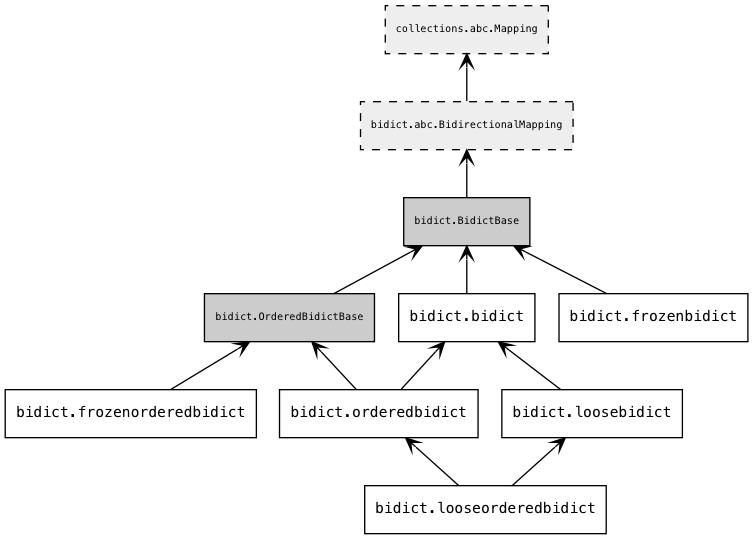
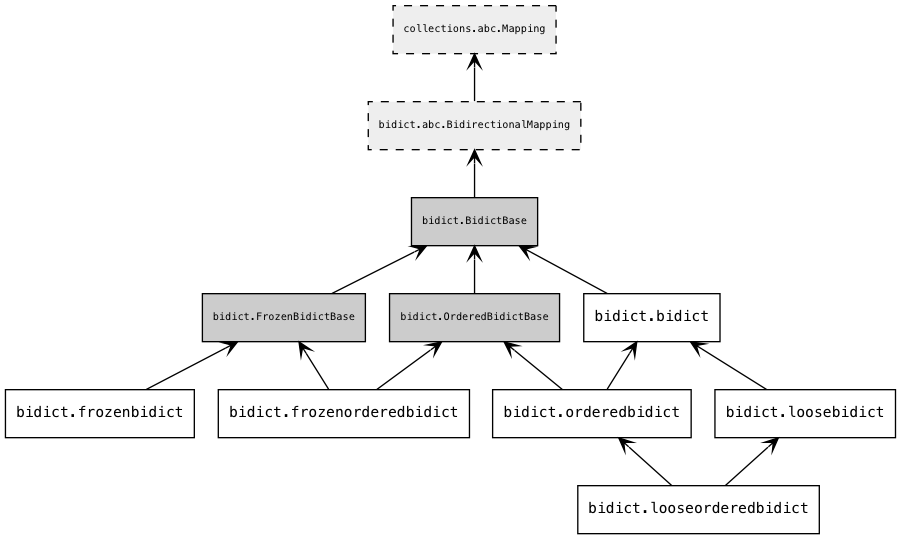
docs fixes and improvements

diff --git a/bidict/_frozen.py b/bidict/_frozen.py
@@ -4,11 +4,10 @@ from ._common import BidictBase, _marker
 from ._ordered import OrderedBidictBase
 from .compat import iteritems
 from abc import abstractmethod
-from collections import Hashable
 from itertools import chain, islice
 
 
-class FrozenBidictBase(Hashable):
+class FrozenBidictBase(BidictBase):
     """
     Base class for frozen bidict types.
 
@@ -34,7 +33,7 @@ class FrozenBidictBase(Hashable):
     @abstractmethod
     def _compute_hash(self, items):
         """Abstract method to actually compute the hash of ``items``."""
-        return NotImplemented
+        return NotImplemented  # pragma: no cover
 
     def __hash__(self):
         """
@@ -43,10 +42,10 @@ class FrozenBidictBase(Hashable):
         The number of participating items may be limited by
         :attr:`_HASH_NITEMS_MAX`.
 
-        Delegates to subclasses' :attr:`_compute_hash` implementations on the
-        first call, then caches the result to make future calls O(1).
+        Delegates to :attr:`_compute_hash` on the first call, then caches the
+        result to make future calls O(1).
 
-        Creates an iterable of items based on :attr:`_HASH_NITEMS_MAX`
+        Creates an :func:`itertools.islice` of :attr:`_HASH_NITEMS_MAX` items
         and passes it to :attr:`_compute_hash`.
         A marker item derived from the class name is also prepended, to
         canonicalize the resulting hash.
@@ -61,43 +60,59 @@ class FrozenBidictBase(Hashable):
         return hv
 
 
-class frozenbidict(FrozenBidictBase, BidictBase):
+class frozenbidict(FrozenBidictBase):
     """Regular frozen bidict type."""
+
+    # Python sets __hash__ to None implicitly if not set explicitly.
+    __hash__ = FrozenBidictBase.__hash__
 
     def _compute_hash(self, items):
         """
-        Because the items of a :class:`frozenbidict` have no guaranteed order,
-        this could use the set hash algorithm provided by
-        ``collections.Set._hash()`` to incrementally compute a hash from an
-        iterable of items in constant space. However, instead this creates an
-        ephemeral frozenset out of ``items`` which is passed to :func:`hash`.
-        On CPython, this results in the faster ``frozenset_hash`` routine
-        (implemented in ``setobject.c``) being used, trading space for time.
-        Python does not expose a way to use the ``frozenset_hash`` algorithm
-        with an iterable, so an ephemeral frozenset must be created to use it.
+        Creates an ephemeral frozenset out of the given ``items``
+        and returns the result of passing it to :func:`hash`.
+        On CPython, this results in the fast ``frozenset_hash`` routine
+        (implemented in ``setobject.c``) being used.
+
+        CPython does not expose a way to use its fast C implementation of
+        its set hashing algorithm with any iterable,
+        so the ephemeral frozenset must be created to use it.
+        A pure Python implementation of this algorithm is available in
+        :func:`collections.Set._hash` which could be used instead
+        to incrementally compute the hash in constant space,
+        but it's noticeably slower than the C implementation,
+        so it is not preferred here.
 
         Time and space complexity can be limited by setting
         :attr:`_HASH_NITEMS_MAX <FrozenBidictBase._HASH_NITEMS_MAX>`.
+
+        PyPy users may prefer to override this in a subclass to return
+        ``ItemsView(self)._hash()`` to avoid the ephemeral frozenset
+        allocation, but it won't be any faster.
         """
         return hash(frozenset(items))
 
 
-class frozenorderedbidict(FrozenBidictBase, OrderedBidictBase):
+class frozenorderedbidict(OrderedBidictBase, FrozenBidictBase):
     """Ordered frozen bidict type."""
+
+    # Python sets __hash__ to None implicitly if not set explicitly.
+    __hash__ = FrozenBidictBase.__hash__
 
     def _compute_hash(self, items):
         """
-        Because items are ordered, this uses Python's tuple hash algorithm to
-        compute a hash from ``items``.
+        Because items are ordered, this uses Python's tuple hashing algorithm
+        to compute a hash from ``items``.
 
-        Python does not expose its internal tuple hash algorithm so it can be
-        used with any iterable. So to use CPython's fast ``tuplehash`` routine
-        (implemented in ``tupleobject.c``), an ephemeral tuple must be created
-        and passed to :func:`hash`.
+        Python does not expose a way to use its tuple hashing algorithm on an
+        iterable, so this creates an ephemeral tuple from ``items`` and returns
+        the result of passing it to :func:`hash`.
+        On CPython, this results in the fast ``tuplehash`` routine
+        (implemented in ``tupleobject.c``) being used.
 
         Time and space complexity can be limited by setting
         :attr:`_HASH_NITEMS_MAX <FrozenBidictBase._HASH_NITEMS_MAX>`.
         """
-        # Flatten to avoid recursive calls to tuplehash. Noticeable speedup.
+        # Flatten items to avoid recursive calls to tuplehash. Noticeable speedup.
+        # (k1, v1), (k2, v2), ...  ->  k1, v1, k2, v2, ...
         items = chain.from_iterable(items)
         return hash(tuple(items))

diff --git a/bidict/_common.py b/bidict/_common.py
@@ -357,9 +357,8 @@ class BidictBase(BidirectionalMapping):
         values.__doc__ = "Like dict's ``values``."
 
         # Use ItemsView here rather than proxying to _fwd.viewitems() so that
-        # frozenbidict.__hash__ can call ._hash() on this, and so that
         # OrderedBidictBase (whose _fwd's values are nodes, not bare values)
-        # can use it too.
+        # can use it.
         viewitems = lambda self: ItemsView(self)
 
 
